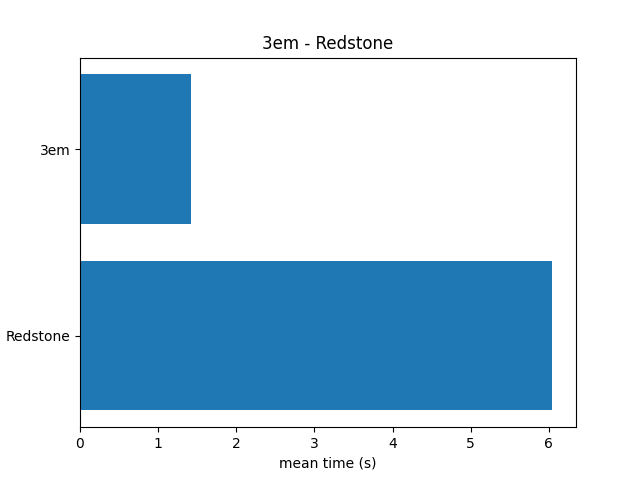
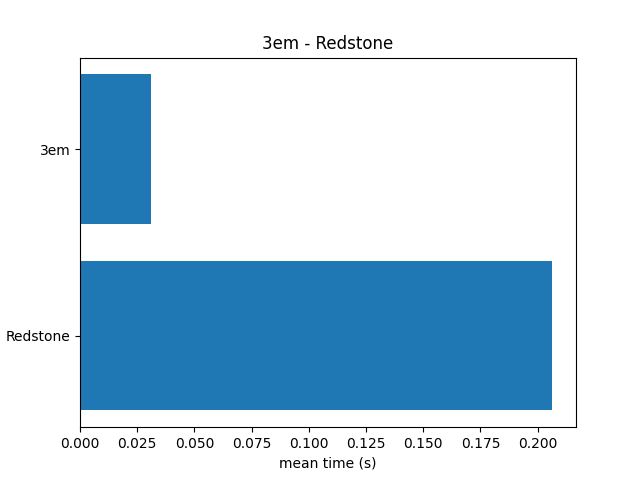
update README

diff --git a/README.md b/README.md
@@ -1,4 +1,3 @@
-
 ## Setup
 
 ```bash
@@ -21,15 +20,17 @@ $ pip install numpy matplotlib
 
 ## End user benchmarks
 
-These benchmarks are what **you* as a CLI end-user care should care about the most.
+These benchmarks are what *_you_ as a CLI end-user care should care about the
+most.
 
 Measures:
-* Startup time
-* Filesystem cache
-* Execution performance
-* Interaction loading
-* Non-fixed block height
-* arweave.net gateway
+
+- Startup time
+- Filesystem cache
+- Execution performance
+- Interaction loading
+- Non-fixed block height
+- arweave.net gateway
 
 ```bash
 $ hyperfine '3em_bench/target/release/bench' 'node redstone_bench/main.js' --export-json bench1.json
@@ -37,16 +38,16 @@ $ hyperfine '3em_bench/target/release/bench' 'node redstone_bench/main.js' --exp
 
 ```
 Benchmark 1: 3em_bench/target/release/bench
-  Time (mean ± σ):      1.434 s ±  0.107 s    [User: 0.092 s, System: 0.009 s]
-  Range (min … max):    1.342 s …  1.722 s    10 runs
-
+  Time (mean ± σ):      31.1 ms ±   2.9 ms    [User: 25.8 ms, System: 5.9 ms]
+  Range (min … max):    27.9 ms …  43.5 ms    50 runs
+ 
 Benchmark 2: node redstone_bench/main.js
-  Time (mean ± σ):      6.084 s ±  0.529 s    [User: 0.427 s, System: 0.045 s]
-  Range (min … max):    5.517 s …  7.417 s    10 runs
+  Time (mean ± σ):     206.4 ms ±  45.8 ms    [User: 214.1 ms, System: 25.8 ms]
+  Range (min … max):   169.2 ms … 406.7 ms    50 runs
 
 Summary
   '3em_bench/target/release/bench' ran
-    4.24 ± 0.49 times faster than 'node redstone_bench/main.js'
+    6.63 ± 1.60 times faster than 'node redstone_bench/main.js'
 ```
 
 ![](./bench1.png)
@@ -55,24 +56,25 @@ Summary
 
 ### Without FS cache
 
-Same as above but clears the filesystem cache after each iteration. This is to measure raw network performance.
+Same as above but clears the filesystem cache after each iteration. This is to
+measure raw network performance.
 
 ```bash
-$ hyperfine --prepare 'rm -rf ~/.cache/3em' '3em_bench/target/release/bench' 'node redstone_bench/main.js' --export-json bench2.json
+$ hyperfine --prepare 'rm -rf ~/.cache/3em ./cached' '3em_bench/target/release/bench' 'node redstone_bench/main.js' --export-json bench2.json
 ```
 
 ```
 Benchmark 1: 3em_bench/target/release/bench
-  Time (mean ± σ):      4.503 s ±  0.339 s    [User: 0.065 s, System: 0.065 s]
-  Range (min … max):    4.191 s …  5.294 s    10 runs
-
+  Time (mean ± σ):      5.507 s ±  0.710 s    [User: 0.060 s, System: 0.071 s]
+  Range (min … max):    4.073 s …  6.362 s    10 runs
+ 
 Benchmark 2: node redstone_bench/main.js
-  Time (mean ± σ):      8.337 s ±  2.453 s    [User: 0.429 s, System: 0.042 s]
-  Range (min … max):    6.165 s … 13.274 s    10 runs
-
+  Time (mean ± σ):      8.460 s ±  2.066 s    [User: 0.428 s, System: 0.036 s]
+  Range (min … max):    6.758 s … 13.892 s    10 runs
+ 
 Summary
   '3em_bench/target/release/bench' ran
-    1.85 ± 0.56 times faster than 'node redstone_bench/main.js'
+    1.54 ± 0.42 times faster than 'node redstone_bench/main.js'
 ```
 
 ![](./bench2.png)
@@ -85,10 +87,10 @@ Library performance comparison.
 
 // TODO
 
-
 ## Host info
 
 Here's `inxi -Fxz` output for the host system used in the above benchmarks:
+
 ```
 System:
   Kernel: 5.13.0-7620-generic x86_64 bits: 64 compiler: N/A
